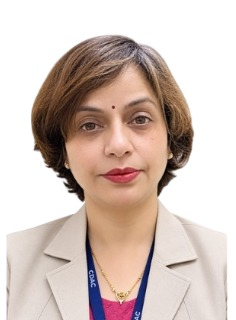
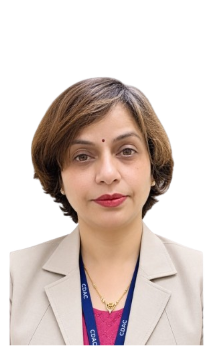
Update website UI and speaker section

diff --git a/src/app/speakers/page.tsx b/src/app/speakers/page.tsx
@@ -97,9 +97,13 @@ export default function SpeakersPage() {
                     </p>
 
                     {/* Designation */}
-                    <p className="text-sm text-slate-600 font-medium leading-relaxed mb-5">
-                      {speaker.designation}
-                    </p>
+<p className="text-sm text-slate-600 font-medium leading-relaxed mb-5">
+  {speaker.designation.split("\n").map((line, index) => (
+    <span key={index} className="block">
+      {line}
+    </span>
+  ))}
+</p>
 
                     {/* Affiliation */}
                     <div className="border-t border-slate-100 w-full pt-4 mt-auto flex items-start justify-center gap-2 text-xs text-slate-600 font-medium">

diff --git a/src/app/page.tsx b/src/app/page.tsx
@@ -793,7 +793,7 @@ export default function Home() {
                   benefits: [
                     "Logo recognition on the conference website with a link to your website.",
                     "Logo recognition in the conference brochure, banners, proceedings, and sessions.",
-                    "A promotional video of the sponsor will be webcast during the general online sessions of the conference.",
+                    "A promotional video of the sponsor will be played in all the sessions of the conference.",
                     "The registration fee for one (01) person from your side will be waived."
                   ]
                 },

diff --git a/src/data/speakers.ts b/src/data/speakers.ts
@@ -1,3 +1,4 @@
+
 export interface Speaker {
   id: string;
   name: string;
@@ -41,9 +42,9 @@ export const speakersData: Speaker[] = [
     id: "4",
     name: "Dr. Priyanka Jain",
     designation:
-      "Scientist 'F' & Head, Neurocognitive AI Group, Associate Director",
+      "Scientist 'F' & Head,\nNeurocognitive AI Group,\nAssociate Director",
     affiliation:
-      "Centre for Development of Advanced Computing (C-DAC), Delhi",
+      "Centre for Development of Advanced Computing (CDAC), New Delhi",
     image: "/speaker/priyanka-jain.jpg",
     bio: "...",
     type: "Keynote",
